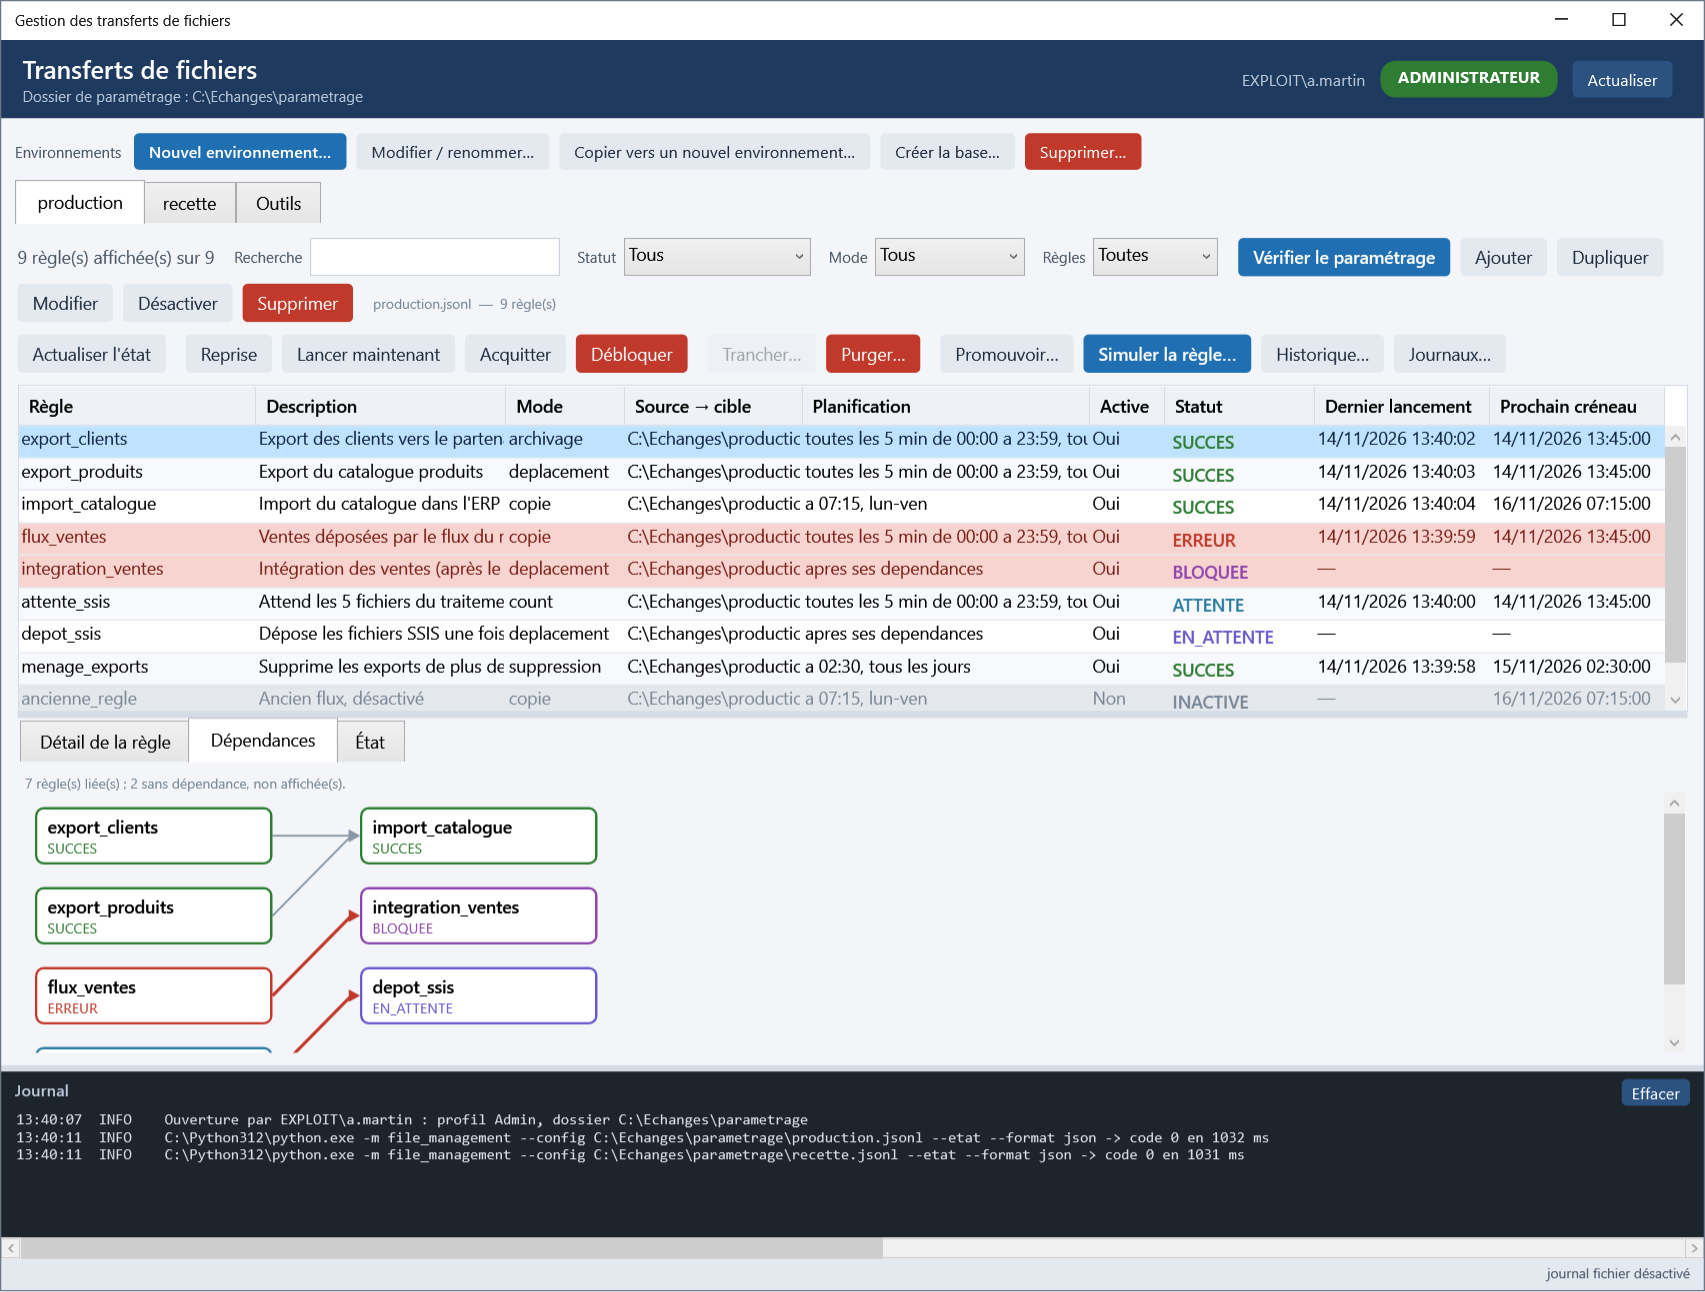
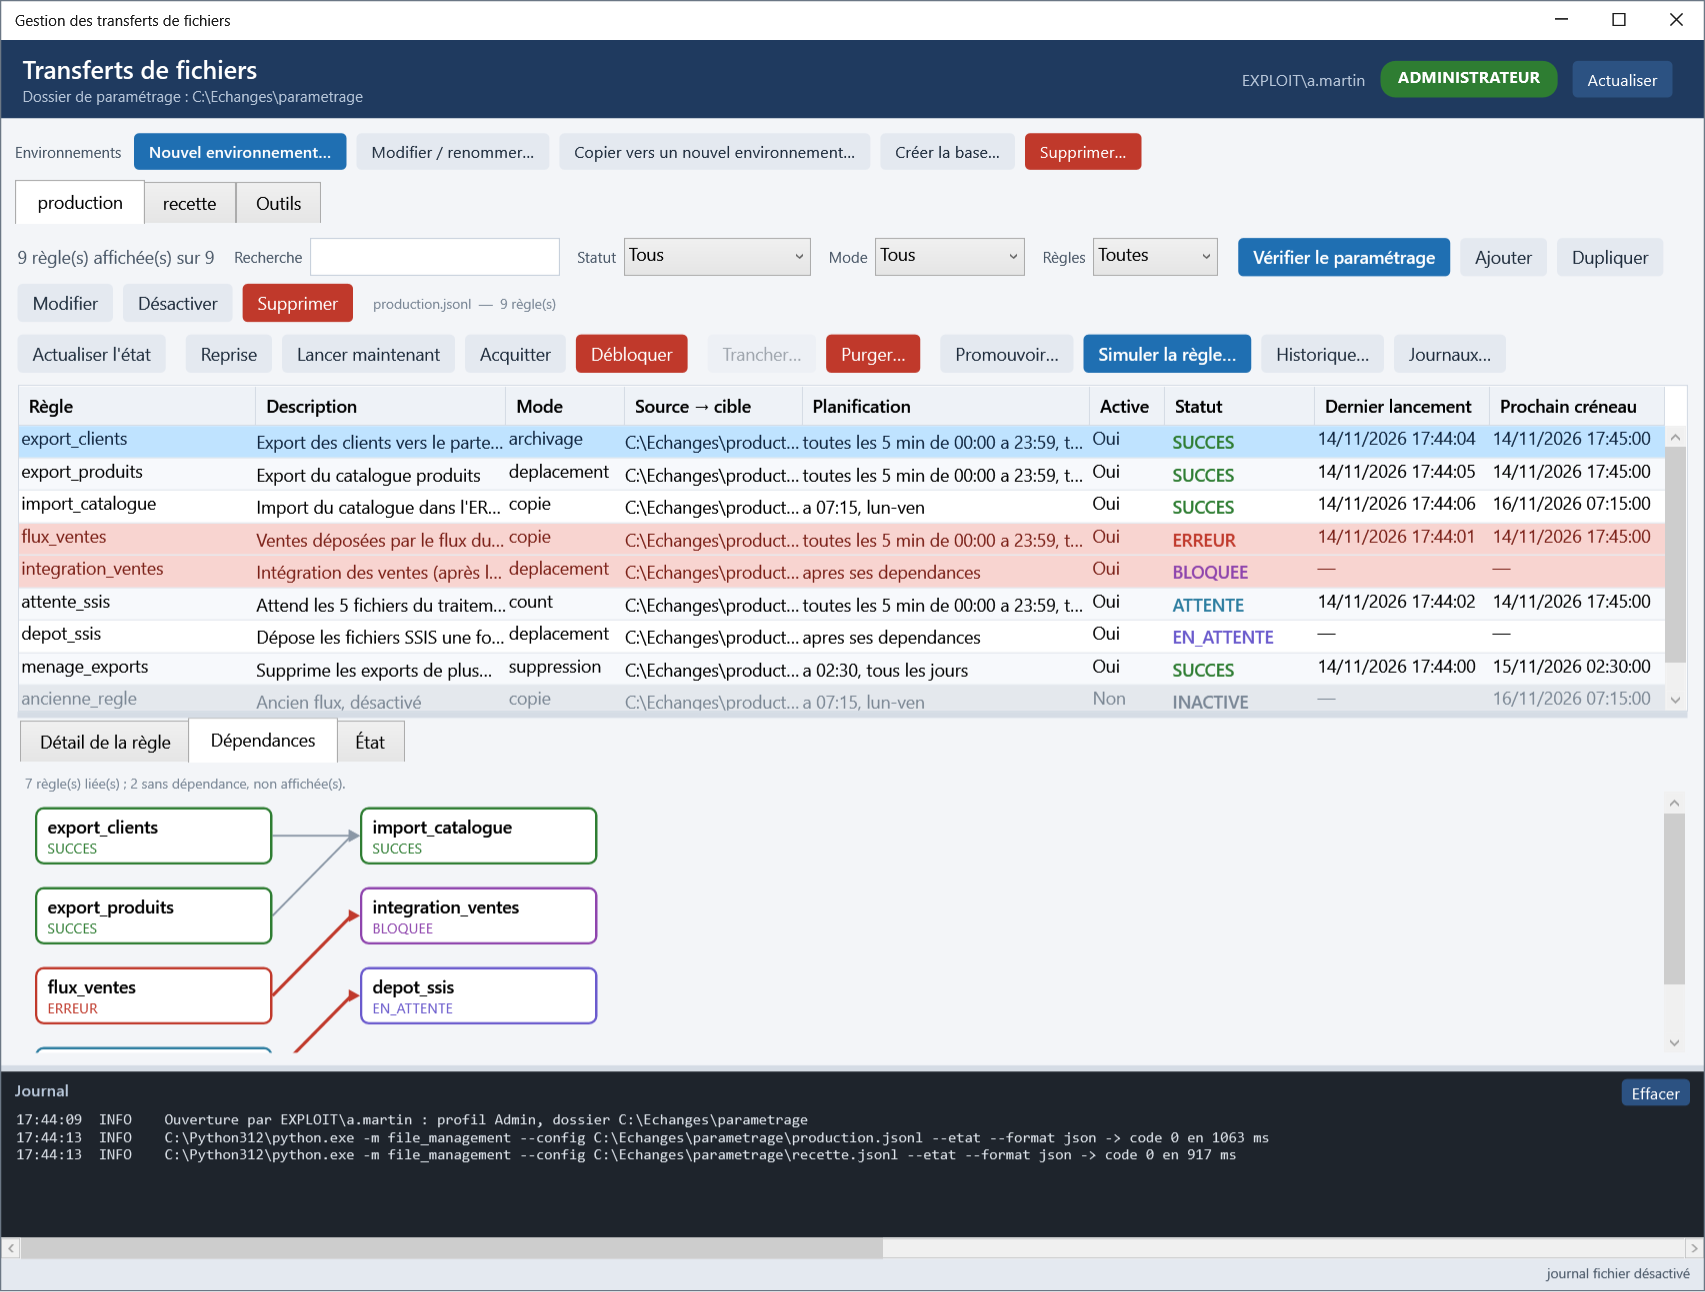
Textes coupes de l'interface : lignes de grille a hauteur minimale, points de suspension, retours a la ligne
La hauteur de ligne fixe (26) du style commun des grilles rognait les textes qui passaient
a la ligne. MinRowHeight la remplace. Grille principale : Description, Source -> cible et
Planification en une ligne avec points de suspension et info-bulle. Controle des repertoires
et simulation : retour a la ligne. Case « Suspendre l'environnement » : libelle sur plusieurs
lignes. Onze images du guide regenerees, CHANGELOG mis a jour.

diff --git a/Gui/Xaml/Dialog.Simulation.xaml b/Gui/Xaml/Dialog.Simulation.xaml
@@ -19,25 +19,25 @@
     <TextBlock x:Name="Resume" DockPanel.Dock="Top" FontSize="15" FontWeight="SemiBold" Foreground="#1F3A5F" TextWrapping="Wrap" Margin="0,0,0,6"/>
     <TextBlock x:Name="Remarques" DockPanel.Dock="Top" Foreground="#6B4A00" TextWrapping="Wrap" Margin="0,0,0,8"/>
     <TextBlock DockPanel.Dock="Top" Text="Contrôles des répertoires" Style="{StaticResource FieldLabel}" Margin="0,0,0,4"/>
-    <DataGrid x:Name="GrilleControles" DockPanel.Dock="Top" Height="150" Margin="0,0,0,10">
+    <DataGrid x:Name="GrilleControles" DockPanel.Dock="Top" Height="230" Margin="0,0,0,10">
       <DataGrid.Columns>
         <DataGridTextColumn Header="Répertoire" Binding="{Binding Role}" Width="150"/>
-        <DataGridTextColumn Header="Chemin" Binding="{Binding Chemin}" Width="2*"/>
+        <DataGridTextColumn Header="Chemin" Binding="{Binding Chemin}" Width="2*" ElementStyle="{StaticResource CelluleRetour}"/>
         <DataGridTextColumn Header="Existe" Binding="{Binding Existe}" Width="60"/>
         <DataGridTextColumn Header="Lecture" Binding="{Binding Lecture}" Width="65"/>
-        <DataGridTextColumn Header="Écriture" Binding="{Binding Ecriture}" Width="150"/>
-        <DataGridTextColumn Header="Espace disque" Binding="{Binding Espace}" Width="230"/>
+        <DataGridTextColumn Header="Écriture" Binding="{Binding Ecriture}" Width="150" ElementStyle="{StaticResource CelluleRetour}"/>
+        <DataGridTextColumn Header="Espace disque" Binding="{Binding Espace}" Width="230" ElementStyle="{StaticResource CelluleRetour}"/>
         <DataGridTextColumn Header="Verdict" Binding="{Binding Verdict}" Width="80"/>
-        <DataGridTextColumn Header="Remarque" Binding="{Binding Remarque}" Width="*"/>
+        <DataGridTextColumn Header="Remarque" Binding="{Binding Remarque}" Width="*" ElementStyle="{StaticResource CelluleRetour}"/>
       </DataGrid.Columns>
     </DataGrid>
     <TextBlock DockPanel.Dock="Top" Text="Fichiers concernés" Style="{StaticResource FieldLabel}" Margin="0,0,0,4"/>
     <DataGrid x:Name="Grille">
       <DataGrid.Columns>
-        <DataGridTextColumn Header="Fichier source" Binding="{Binding Fichier}" Width="2*"/>
-        <DataGridTextColumn Header="Destination" Binding="{Binding Cible}" Width="2*"/>
+        <DataGridTextColumn Header="Fichier source" Binding="{Binding Fichier}" Width="2*" ElementStyle="{StaticResource CelluleRetour}"/>
+        <DataGridTextColumn Header="Destination" Binding="{Binding Cible}" Width="2*" ElementStyle="{StaticResource CelluleRetour}"/>
         <DataGridTextColumn Header="Taille" Binding="{Binding Taille}" Width="90"/>
-        <DataGridTextColumn Header="Archive" Binding="{Binding Archive}" Width="*"/>
+        <DataGridTextColumn Header="Archive" Binding="{Binding Archive}" Width="*" ElementStyle="{StaticResource CelluleRetour}"/>
       </DataGrid.Columns>
     </DataGrid>
   </DockPanel>

diff --git a/Gui/Xaml/Dialog.Environnement.xaml b/Gui/Xaml/Dialog.Environnement.xaml
@@ -86,9 +86,10 @@
       <TextBox Grid.Row="11" Grid.Column="1" x:Name="MargeEspaceMo" Margin="0,0,0,8"/>
       <TextBlock Grid.Row="11" Grid.Column="2" Text="vide : 64" Style="{StaticResource Hint}" VerticalAlignment="Center" Margin="10,0,0,8"/>
       <TextBlock Grid.Row="12" Grid.Column="0" Text="Suspension" Style="{StaticResource FieldLabel}" VerticalAlignment="Center" Margin="0,0,10,8"/>
-      <CheckBox Grid.Row="12" Grid.Column="1" x:Name="Suspendu" Margin="0,0,0,8" VerticalAlignment="Center"
-                Content="Suspendre l'environnement : aucune règle n'est lancée (maintenance)"
-                ToolTip="Les lancements planifiés, manuels et les reprises sont ignorés tant que la case est cochée ; les exécutions déjà en cours ne sont pas interrompues. Le code retour reste 0 : Jenkins ne passe pas au rouge."/>
+      <CheckBox Grid.Row="12" Grid.Column="1" Grid.ColumnSpan="2" x:Name="Suspendu" Margin="0,0,0,8" VerticalAlignment="Center"
+                ToolTip="Les lancements planifiés, manuels et les reprises sont ignorés tant que la case est cochée ; les exécutions déjà en cours ne sont pas interrompues. Le code retour reste 0 : Jenkins ne passe pas au rouge.">
+        <TextBlock TextWrapping="Wrap" Text="Suspendre l'environnement : aucune règle n'est lancée (maintenance)"/>
+      </CheckBox>
       <TextBlock Grid.Row="13" Grid.Column="0" Text="Motif de la suspension" Style="{StaticResource FieldLabel}" VerticalAlignment="Center" Margin="0,0,10,8"/>
       <TextBox Grid.Row="13" Grid.Column="1" x:Name="MotifSuspension" Margin="0,0,0,8"/>
       <TextBlock Grid.Row="13" Grid.Column="2" Text="facultatif, écrit au journal" Style="{StaticResource Hint}" VerticalAlignment="Center" Margin="10,0,0,8"/>

diff --git a/Gui/Xaml/Styles.xaml b/Gui/Xaml/Styles.xaml
@@ -82,8 +82,21 @@
     <Setter Property="AlternatingRowBackground" Value="#F7F9FC"/>
     <Setter Property="Background" Value="White"/>
     <Setter Property="BorderBrush" Value="#D5DCE5"/>
-    <Setter Property="RowHeight" Value="26"/>
+    <!-- Hauteur minimale, pas fixe : une cellule qui passe à la ligne agrandit sa ligne au lieu d'être coupée. -->
+    <Setter Property="MinRowHeight" Value="26"/>
     <Setter Property="SelectionMode" Value="Single"/>
+  </Style>
+  <!-- Cellules de texte des DataGridTextColumn (ElementStyle) : une seule ligne avec points de suspension et info-bulle
+       (grille principale, lignes de hauteur constante), ou passage à la ligne (listes courtes, la ligne s'agrandit). -->
+  <Style x:Key="CelluleEllipse" TargetType="TextBlock">
+    <Setter Property="TextTrimming" Value="CharacterEllipsis"/>
+    <Setter Property="ToolTip" Value="{Binding RelativeSource={RelativeSource Self}, Path=Text}"/>
+    <Setter Property="VerticalAlignment" Value="Center"/>
+  </Style>
+  <Style x:Key="CelluleRetour" TargetType="TextBlock">
+    <Setter Property="TextWrapping" Value="Wrap"/>
+    <Setter Property="Margin" Value="0,2"/>
+    <Setter Property="VerticalAlignment" Value="Top"/>
   </Style>
   <Style TargetType="DataGridColumnHeader">
     <Setter Property="Background" Value="#EEF2F7"/>

diff --git a/Gui/Xaml/Environnement.xaml b/Gui/Xaml/Environnement.xaml
@@ -126,10 +126,10 @@
       </DataGrid.CellStyle>
       <DataGrid.Columns>
         <DataGridTextColumn Header="Règle" Binding="{Binding Id}" Width="190"/>
-        <DataGridTextColumn Header="Description" Binding="{Binding Description}" Width="200"/>
+        <DataGridTextColumn Header="Description" Binding="{Binding Description}" Width="200" ElementStyle="{StaticResource CelluleEllipse}"/>
         <DataGridTextColumn Header="Mode" Binding="{Binding Mode}" Width="95"/>
-        <DataGridTextColumn Header="Source → cible" Binding="{Binding Chemins}" Width="*"/>
-        <DataGridTextColumn Header="Planification" Binding="{Binding Planification}" Width="230"/>
+        <DataGridTextColumn Header="Source → cible" Binding="{Binding Chemins}" Width="*" ElementStyle="{StaticResource CelluleEllipse}"/>
+        <DataGridTextColumn Header="Planification" Binding="{Binding Planification}" Width="230" ElementStyle="{StaticResource CelluleEllipse}"/>
         <DataGridTextColumn Header="Active" Binding="{Binding Actif}" Width="60"/>
         <DataGridTemplateColumn Header="Statut" Width="120">
           <DataGridTemplateColumn.CellTemplate>

diff --git a/CHANGELOG.md b/CHANGELOG.md
@@ -10,6 +10,7 @@ Format inspiré de [Keep a Changelog](https://keepachangelog.com/fr/1.1.0/). Une
 - **Journaux d'une règle : fenêtre « Journaux… »** (2026-11-14). Nouveau bouton à côté de « Simuler la règle… » et « Historique… » : à gauche un journal par jour (date, dernier statut, anomalies), à droite les événements du journal choisi, décomposés en clair (heure, niveau, exécution, message, détails), filtrables par exécution et par « avertissements et erreurs seulement » ; le détail de l'événement sélectionné (fichier, destination, taille, compteurs, type d'erreur…) s'affiche en bas et se copie. Le journal le plus récent et sa dernière exécution s'ouvrent d'office. Moteur : nouvelle commande de lecture seule `--journaux-regle ID [--journal NOM] [--limite-evenements N]` (`file_management/journaux.py`), lit le format de la plateforme et l'ancien format, regroupe par exécution (simulations comprises), borne la réponse (1 500 événements, 1,4 million de caractères : Windows PowerShell 5.1 ne lit pas un JSON de plus de 2 Mo) ; JEA : commande de lecture, `--journal` limité à `<règle>_<AAAA-MM-JJ>.jsonl`. Tests J10H-A02 à A04, manuels J10H-M02 à M05.
 
 ### Corrigé
+- **Textes coupés dans l'interface** (2026-11-14), trouvés au contrôle visuel. Cause : hauteur de ligne fixe (26) dans le style commun des grilles, qui rognait tout texte passant à la ligne (`MinRowHeight` à la place : la ligne s'agrandit). Grille principale : Description, Source → cible et Planification en une ligne avec points de suspension et info-bulle (le texte entier). « Contrôle des répertoires » et simulation : Chemin, Écriture, Espace disque, Remarque, fichiers et destinations passent à la ligne (tableau des contrôles plus haut). Boîtes d'environnement : le libellé de la case « Suspendre l'environnement… » passe à la ligne au lieu d'être coupé. Styles `CelluleEllipse` et `CelluleRetour` dans `Styles.xaml`. Onze images du guide régénérées (01 à 06, 32, 33, 60 à 62).
 - **Dossier du journal de l'interface : plus jamais créé en silence** (2026-11-14). `Journal.Dossier` absent au démarrage : l'interface demande une seule fois s'il faut le créer (`Resolve-CopieDossierJournal`) ; refus, chemin relatif ou invalide, chemin qui désigne un fichier, création impossible : le journal fichier est désactivé pour la session (en mémoire, le fichier de configuration n'est pas modifié) et le panneau du bas en dit la raison. `Write-CopieJournal` ne crée plus le dossier ; s'il disparaît en cours de session, la panne est signalée une fois. Paramètre `-ConfirmerCreationJournal` de `Start-CopieGui` pour les tests. Tests J10F-A21, manuel J10F-M12.
 - **Essais réels du moteur : horodatage et mode `suppression`** (2026-11-14), joués dans le scénario de test n° 2 (hors dépôt, cas 22 à 24, avec le moteur) : `copie` + `horodater` (originaux marqués `_traite_AAAAMMJJ_hhmmss`, rien de recopié au lancement suivant, une date ordinaire dans un nom n'est pas une marque), `archivage` + `horodater` (fichier archivé marqué, cible au nom d'origine), `suppression` avec âge minimum (seuls les `.log` de plus d'un jour disparaissent). Conformes à la spécification, aucun écart. `count` en `ATTENTE` puis succès avec une règle dépendante : cas 17 du même scénario.
 - **Trois comportements du moteur révélés par le scénario de test n° 2** (2026-11-14). (1) **`sur_erreur` n'était pas appelé** quand l'erreur est décidée hors de l'exécution : **déblocage**, **durée maximale dépassée**, **processus disparu** ; l'alerte (webhook, courriel) ne partait donc pas. Elle part maintenant, une fois, avec `COPIE_SITUATION` = `deblocage` / `duree_depassee` / `arret_anormal` (`file_management/execution.py` : `notifier_erreur`) ; un échec de la notification est seulement journalisé. (2) **Reprise d'une règle en aval seule** : elle restait `EN_ATTENTE` tant que son amont n'avait pas retourné depuis le dernier lancement de l'aval ; pour une reprise, les conditions de dépendance sont maintenant évaluées sur l'état actuel de l'amont (`dependances.evaluer(..., reprise=True)`) ; une amont en erreur ou jamais lancée bloque toujours, un lancement manuel attend toujours l'amont. (3) **Livraisons incertaines visibles dès le déblocage** : l'examen des intentions de livraison laissées par la copie interrompue se fait au déblocage (avant la libération du drapeau) et non plus seulement à la reprise suivante ; `--debloquer` renvoie `livraisons_incertaines` (contrat JSON, docs/07). Tests : `test_fins_hors_execution.py` (J8-A08), `test_contrat.py`. Le scénario 2 (hors dépôt, `environnements-tests/scenario2`) vérifie les trois.
@@ -33,7 +34,7 @@ Format inspiré de [Keep a Changelog](https://keepachangelog.com/fr/1.1.0/). Une
 - [ ] **Journal de l'interface** : renseigner `Journal.Environnement` (défaut `prod`) dans `Gestion-Copie.config.psd1`.
 - [ ] **Renommage du projet en « file management »** (2026-11-11) : fichiers renommés (`file_management.py`, `file_management_v2.py`, `fileManagement.groovy`, `FileManagement.psrc`, `file_management.alloy`), rôle JEA `FileManagement`, application `file_management` dans le journal. **Paquets renommés aussi** : le paquet Python `copie` devient `file_management` (le moteur se lance par `python -m file_management`) et les modules PowerShell `Copie.Gui` / `Copie.Jea` deviennent `FileManagement.Gui` / `FileManagement.Jea` (les noms de fonctions `…Copie…` et les variables `COPIE_*` sont inchangés). Le paquet porte le même nom que l'ancien script `file_management.py` (v1) : les tests chargent donc le v1 par son chemin ; `python file_management.py` (v1) continue de fonctionner tel quel. **À reporter à la main** : (1) le job Jenkins : nom, libellé de l'agent, étape `fileManagement` de la bibliothèque partagée et **commande `python -m copie` à remplacer par `python -m file_management`** (le job local de `environnements-tests` est à recréer ou à corriger dans Jenkins : son fichier XML est à jour) ; (2) le point d'accès JEA déjà installé sur un serveur ou ce poste : l'ancien module `Copie.Jea` et l'ancienne configuration de session sont à désinstaller, puis relancer `Installer-PointAccesJea.ps1` ; (3) les fichiers de configuration locaux (`Gestion-Copie.*.config.psd1`) : la clé `Moteur.Racine` désigne toujours le dossier qui contient le paquet, maintenant `file_management\` ; (4) tout script ou raccourci qui lance `python -m copie` ou importe `Copie.Gui`.
 - [ ] **Historique git local** : réécrire les commits locaux non poussés pour retirer les références à l'entreprise d'origine (branche de sauvegarde d'abord, rien n'est poussé), puis vérifier `git log -p -S<mot> -i`. Décision de l'utilisateur du 2026-11-11 ; non faite tant que cette case est ouverte.
-- [ ] **Contrôle visuel de l'interface** (2026-11-14) : fait **à partir des 45 images du guide** (vraies fenêtres) ; couleurs des lignes (inactive grise, erreur et bloquée rouges, sélection bleu ciel), filtres statut / mode / règles, boîtes « Environnement » (racines, aperçu des chemins complets), formulaire des modes `suppression` et `count` (seuils, case « Horodater » grisée) : conformes. **Défauts vus, non corrigés** : texte coupé sans points de suspension dans la grille principale (Description, Source → cible, Planification), dans « Contrôle des répertoires » (colonne Message, la fin de la phrase « il peut être créé avec le compte du service » est perdue), dans la simulation (colonne Espace disque) et sur la case « Suspendre l'environnement… » des boîtes d'environnement (libellé coupé après « (main »). **Pas encore vus** : la fenêtre de résultat après création / copie / modification d'un environnement et après « Créer la base », les phrases de simulation des modes `suppression`, `count` et `size`, le mode `size` du formulaire.
+- [ ] **Contrôle visuel de l'interface** (2026-11-14) : fait **à partir des 45 images du guide** (vraies fenêtres) ; couleurs des lignes (inactive grise, erreur et bloquée rouges, sélection bleu ciel), filtres statut / mode / règles, boîtes « Environnement » (racines, aperçu des chemins complets), formulaire des modes `suppression` et `count` (seuils, case « Horodater » grisée) : conformes. Les textes coupés qu'il avait révélés sont corrigés (voir « Corrigé »). **Pas encore vus** : la fenêtre de résultat après création / copie / modification d'un environnement et après « Créer la base », les phrases de simulation des modes `suppression`, `count` et `size`, le mode `size` du formulaire.
 - [ ] **Jeux d'essai** `environnements-tests\Parametrage\preprod.jsonl` : passer aux racines (`racine`, chemins partiels) si l'utilisateur le souhaite ; non modifié.
 - [ ] **Rejouer le cahier de tests** sur Windows Server 2016 et valider le point d'accès JEA sur un vrai serveur (jamais fait).
 - [ ] **Message « chemin incomplet »** (E07, R14) : à rendre plus explicite dans l'interface si les testeurs le demandent.
